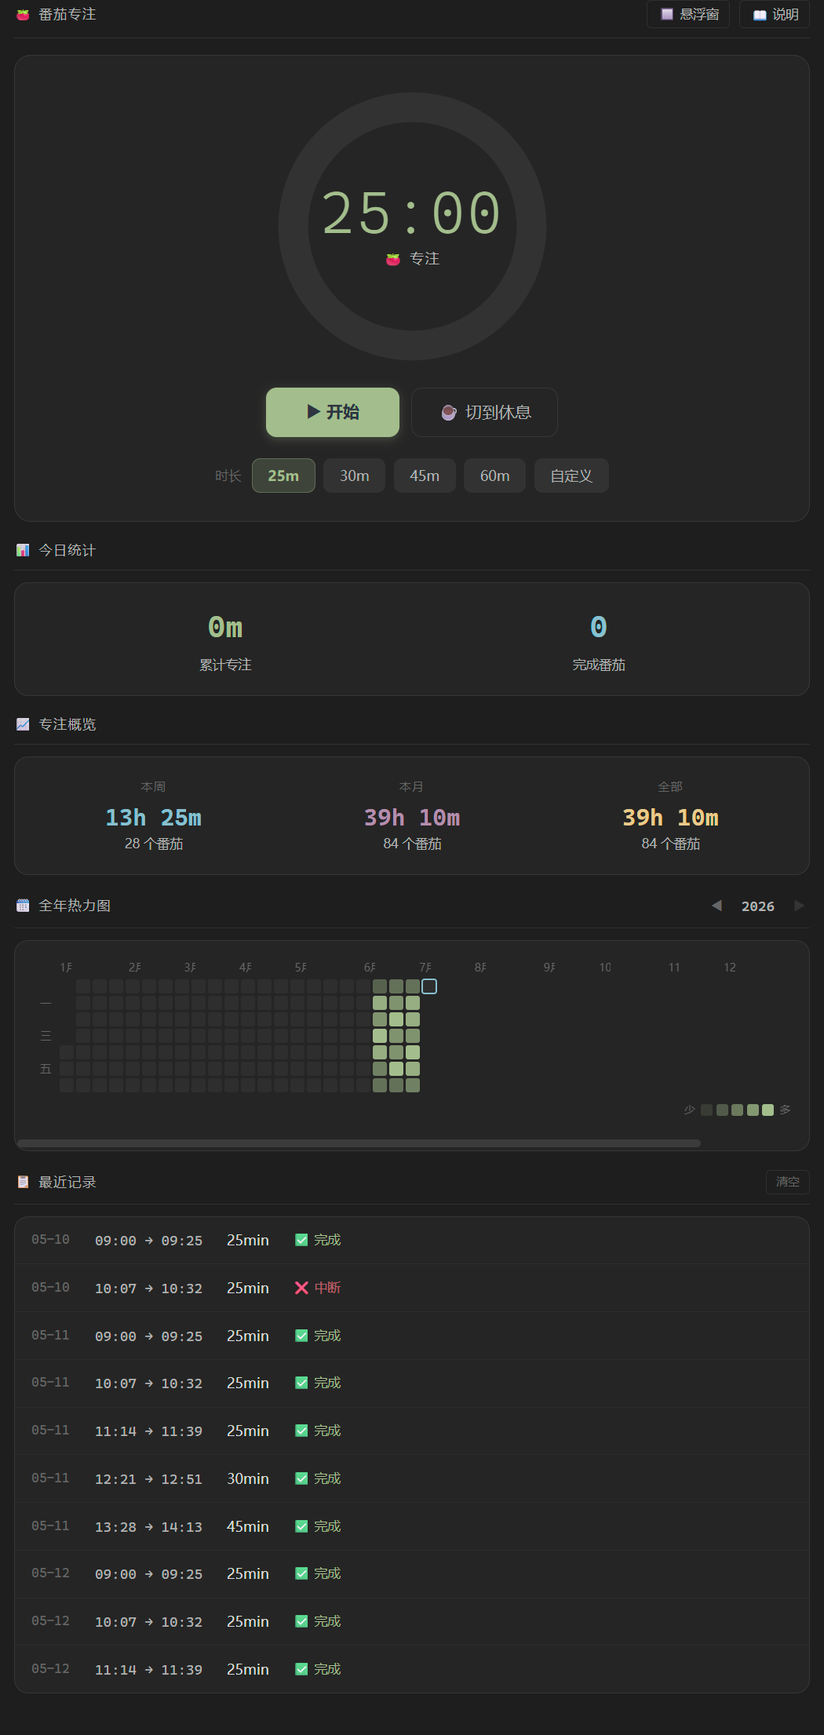
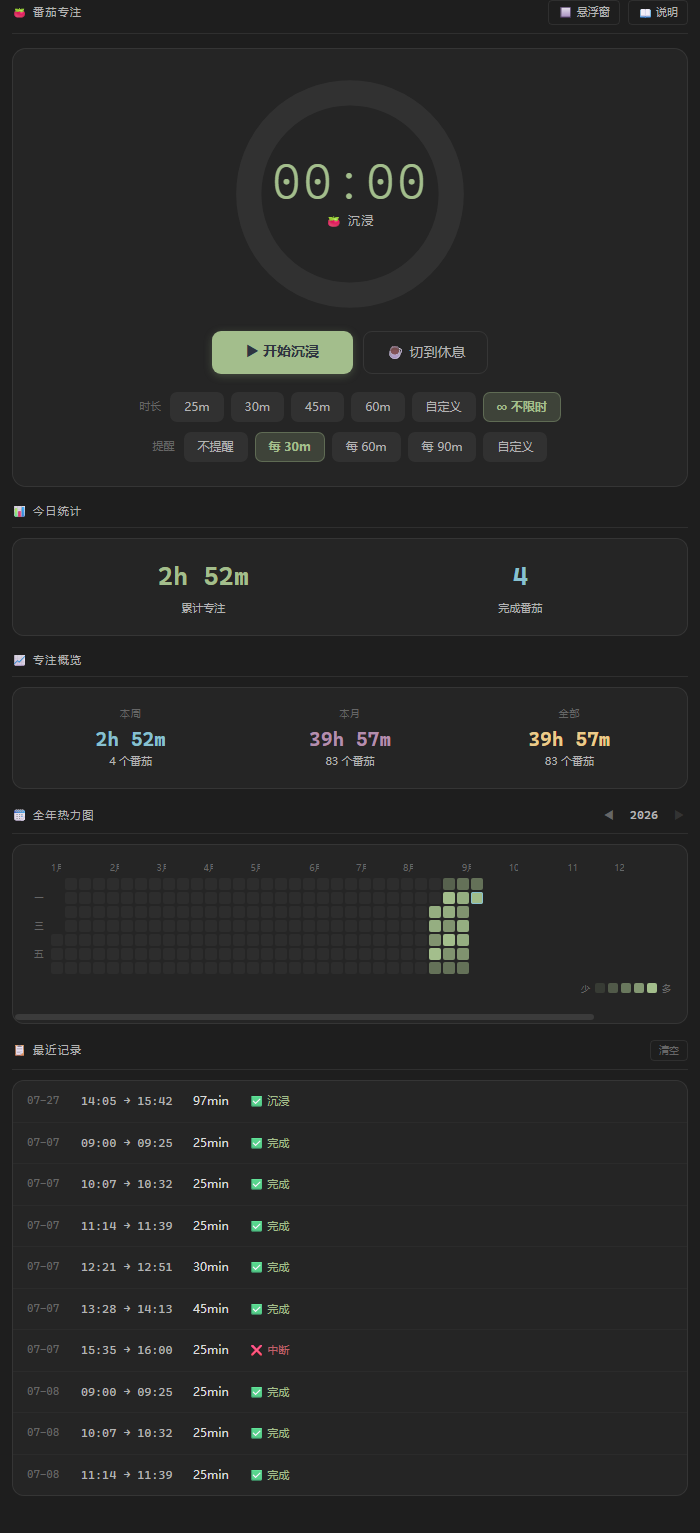
docs: v1.76.0 沉浸模式（正计时）—— README 番茄段更新 + 效果图重刷

diff --git a/README.md b/README.md
@@ -55,7 +55,7 @@
 <td width="50%" valign="top">
   <img src="docs/img/module-pomodoro.png" width="410" alt="番茄专注"><br>
   <b>🍅 番茄专注</b><br>
-  <sub>时间戳法计时（关掉 Obsidian 也不丢进度）+ 桌面悬浮窗 + 全年热力图 + 历史记录可单条删除。</sub>
+  <sub>时间戳法计时（关掉 Obsidian 也不丢进度）+ <b>沉浸模式（正计时）</b>：点「∞ 不限时」从 0 往上走、不自动结束，按你设的间隔（每 30m / 60m / 90m…）轻声提醒一次、不打断，干完点「✓ 结束」记一条。另有桌面悬浮窗 + 全年热力图 + 历史记录可单条删除。</sub>
 </td>
 </tr>
 <tr>
@@ -271,7 +271,7 @@
 - **🧠 画布思维导图** —— 把 Obsidian **原生 Canvas** 变成键盘驱动的思维导图，开箱即用不用绑键：选中节点按 **Tab 长子节点、Enter 加同级**（正在编辑时选中一段文字按 Tab，那段字直接变成子节点），自动连线、自动排版（节点改大小 / 内容变多也实时重排、不重叠）。**连线直角**：左右相连的连线画成规整的直角折线（兄弟连线并成一根主干，XMind 观感）——只是显示效果，`.canvas` 文件数据不变，关掉开关 / 卸载插件就回到原生曲线。**节点折叠**：有子节点的节点旁常显 –/＋ 小圆标，点一下收起 / 展开整棵子树，折叠状态保存在画布文件里、重新打开还在；子孙数据一个不动，卸载插件全部照常可见。配合「🎨 画布」模块（列出库里所有画布）就是一套 Canvas 思维导图工作流。命令面板 5 条命令可自绑键；「设置 → 画布思维导图」可关。仅桌面端（Canvas 编辑本身是桌面功能）。
 - **Ctrl + 滚轮缩放整个 UI** —— 补回 Obsidian 老版本的滚轮缩放（`Ctrl + 0` 复位）。仅桌面端。
 - **高亮标注：选中浮出工具条** —— 编辑模式选中文字，立刻浮出迷你工具条：**5 色背景高亮**（圆点）+ **5 色纯文字换色**（彩色 A，只改字色不带背景）+ **5 色整段高亮**（方块，把整段包成彩色 callout 色块）+ 🧹 一键清除（连你以前手写的 `<font color>` 也能清）。颜色直接写进笔记（行内样式 / Obsidian 原生 callout），**以后就算卸载插件，高亮也不掉色**。对已上色的文字点新颜色即换色；每个颜色都有命令可绑快捷键。仅桌面端。
-- **番茄状态栏指示器** —— 底部状态栏一眼可见番茄进度，点击 = 开始 / 暂停 / 继续。仅桌面端。
+- **番茄状态栏指示器** —— 底部状态栏一眼可见番茄进度（倒计时显示剩余、沉浸模式显示已专注时长），点击 = 开始 / 暂停 / 继续。仅桌面端。
 - **阅读体验：图片对齐 + 页面行宽 + 去嵌入竖条** —— 可选图片对齐（左 / 中 / 右）+ 自定义行宽 + 去掉 `![[...]]` 嵌入笔记的左侧竖条（阅读视图 + 导出 PDF 同时生效）。默认零影响。
 - **一键打开文档组** —— 右下角状态栏「📂 工具组」按钮点一下打开你预设的一组常用文档（各成标签页），快速恢复阅读布局；已打开的不重复开。设置里用文件选择器配置 + 排序。仅桌面端。
 - **PDF 导出增强** —— 导出 PDF 时让**表格不跨页**（纵向：整张尽量落一页，放不下的大表保证「行不腰斩 + 表头每页重复」）+ **宽表适应页宽**（横向：太宽的表不裁右侧列、单元格内容自动换行，可再选字体缩放），可选 callout / 代码块 / 图片也不跨页；命令「插入 PDF 目录页」给当前笔记插入一段**「隐身目录」**——平时在编辑/阅读视图隐藏、不碍眼，**导出 PDF 时自动显示**成一页目录（供读者看全文章节结构，`[[#标题]]` + 层级缩进），一次插入、以后每次导出都自动带，「移除 PDF 目录页」彻底撤掉。设置里配目录标题 / 收录层级 / 是否单独成页。注：受 Obsidian 原生导出限制，PDF 里目录项不可点击跳转、也不生成 PDF 书签（Obsidian 老限制）。
